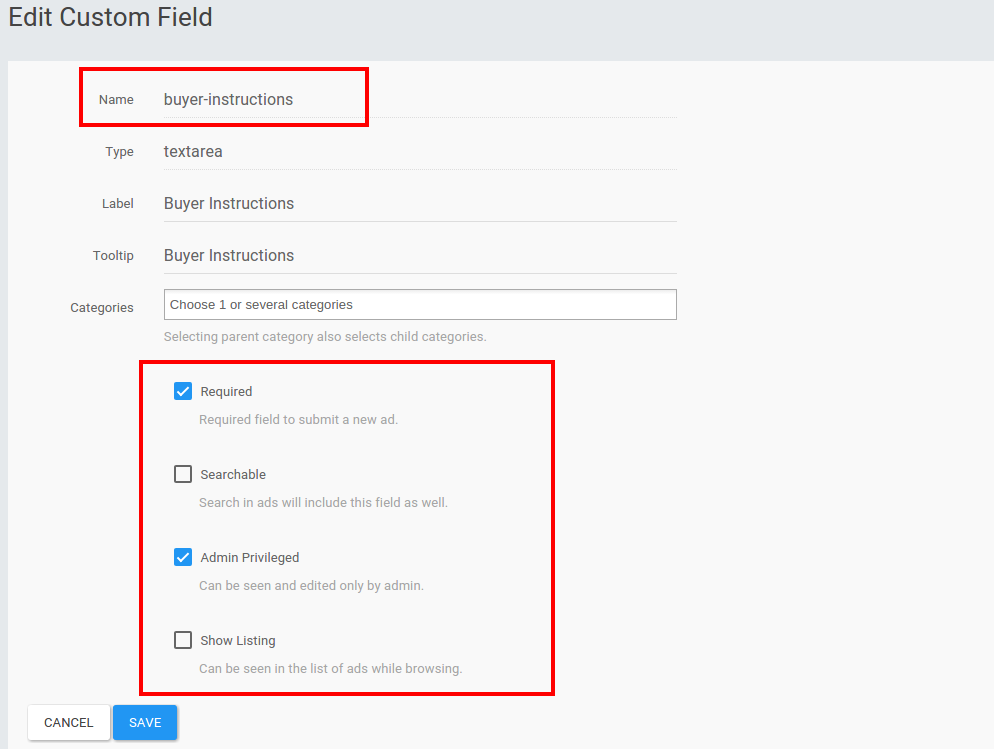
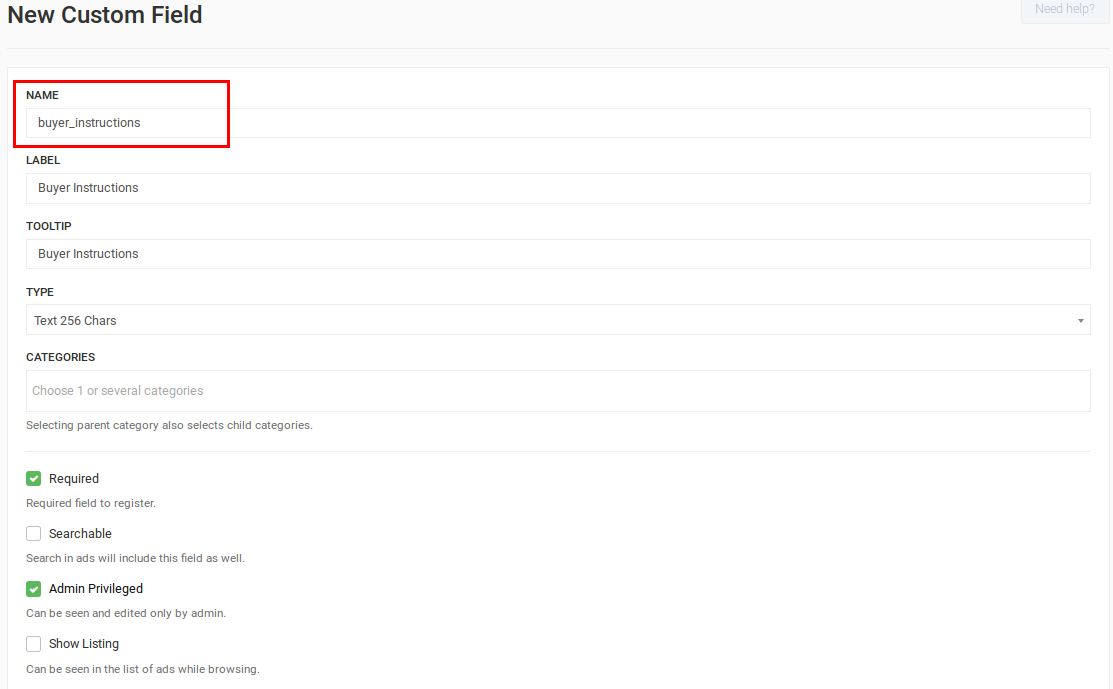
fix cf name

diff --git a/buyer-instructions.md b/buyer-instructions.md
@@ -15,7 +15,7 @@ To enable this feature, you need to **follow these steps:**
 
 1. Go to your panel, **Classifieds -> Custom Fields**.
 2. Click **New Field**.
-3. It's important to call this field **buyer-instructions**.
+3. It's important to call this field **buyer_instructions**.
 4. Fill the fields.
 5. Press **Create**.
 
